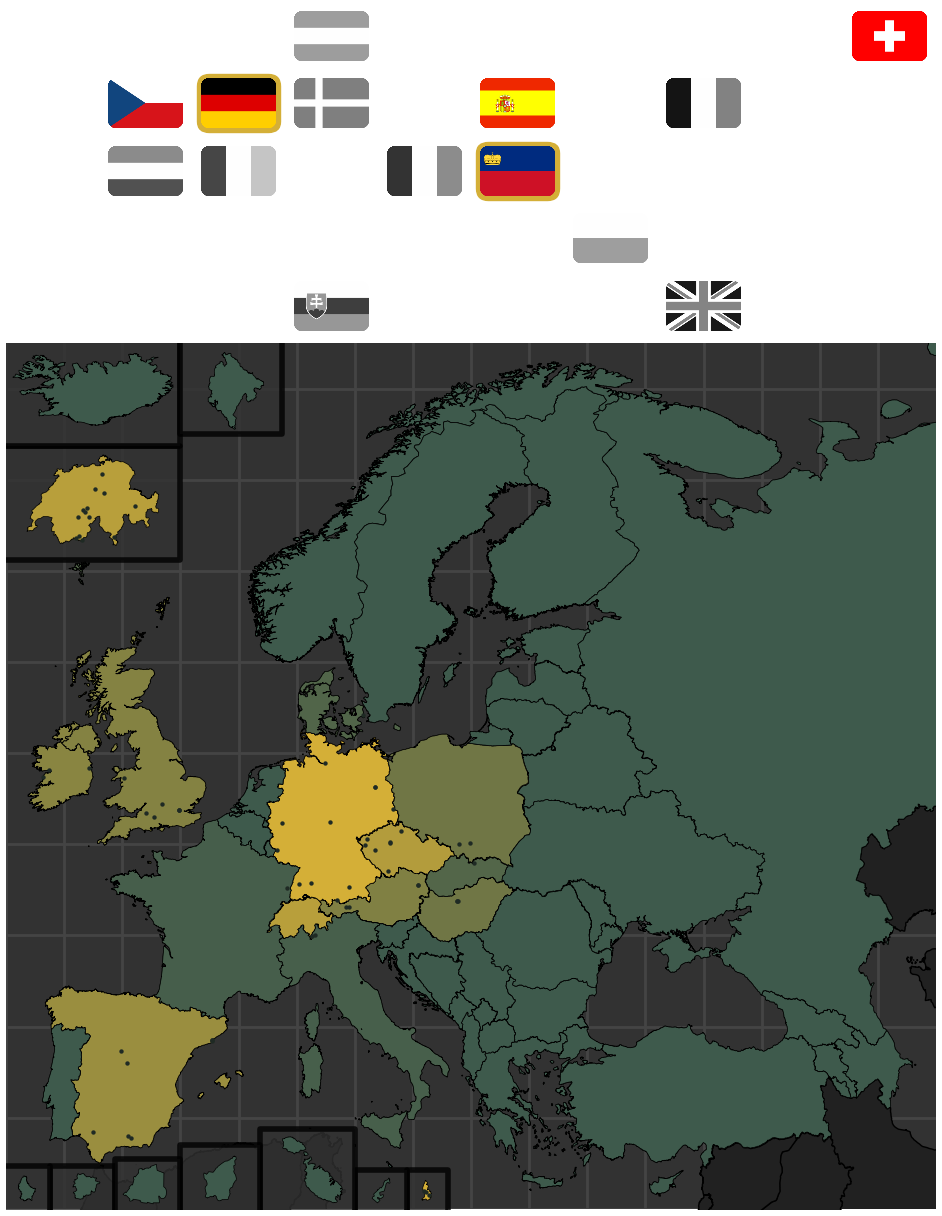
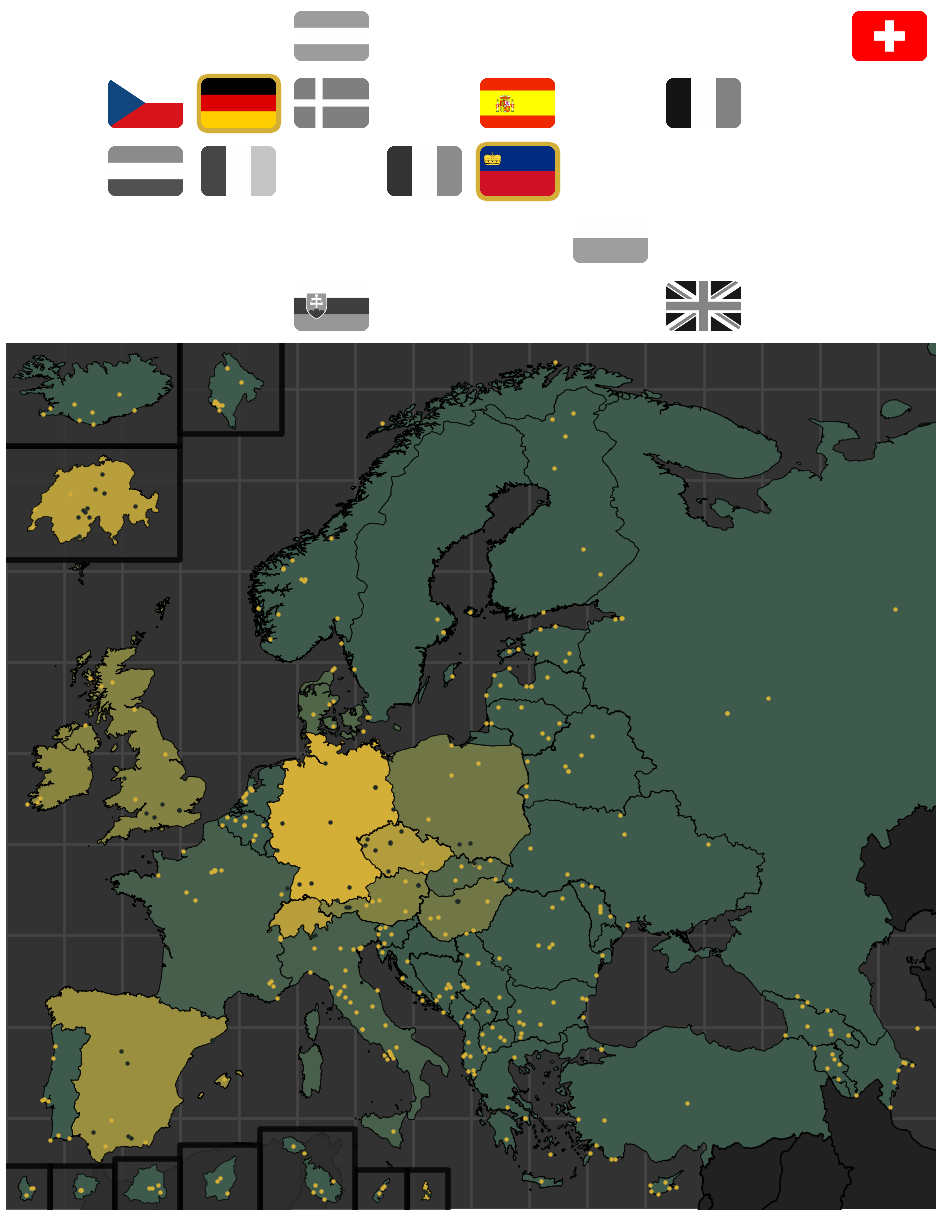
add unvisited back

diff --git a/plotting/plotting_manager.py b/plotting/plotting_manager.py
@@ -199,10 +199,10 @@ class PlotManager:
             points["geometry"].plot(ax=ax, color="black", linewidth=0, markersize=self.marker_size, alpha=0)
 
         else:
-            ## Unvisited
-            #unvisited = (points['date'] > current_date) | (points['date'].isna())
-            #if unvisited.any():
-            #    points[unvisited].plot(ax=ax, color=self.color_unvisited, linewidth=0, markersize=self.marker_size, alpha=1)
+            # Unvisited
+            unvisited = (points['date'] > current_date) | (points['date'].isna())
+            if unvisited.any():
+                points[unvisited].plot(ax=ax, color=self.color_unvisited, linewidth=0, markersize=self.marker_size, alpha=1)
 
             # Visited
             visited = points['date'] < current_date
